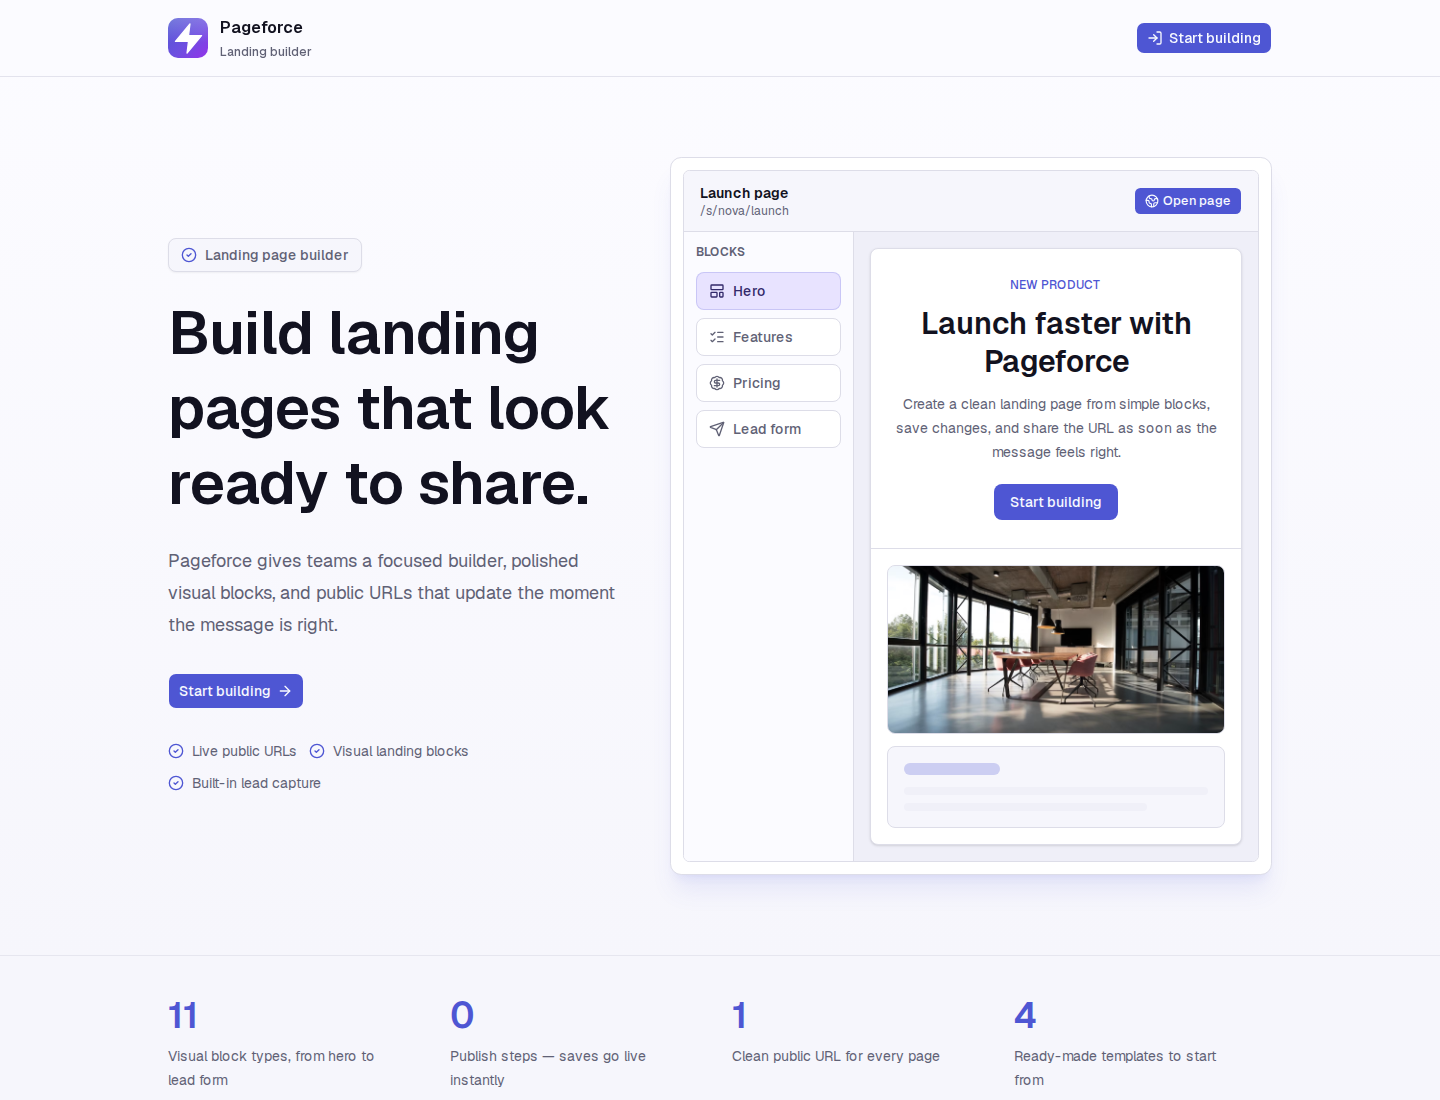
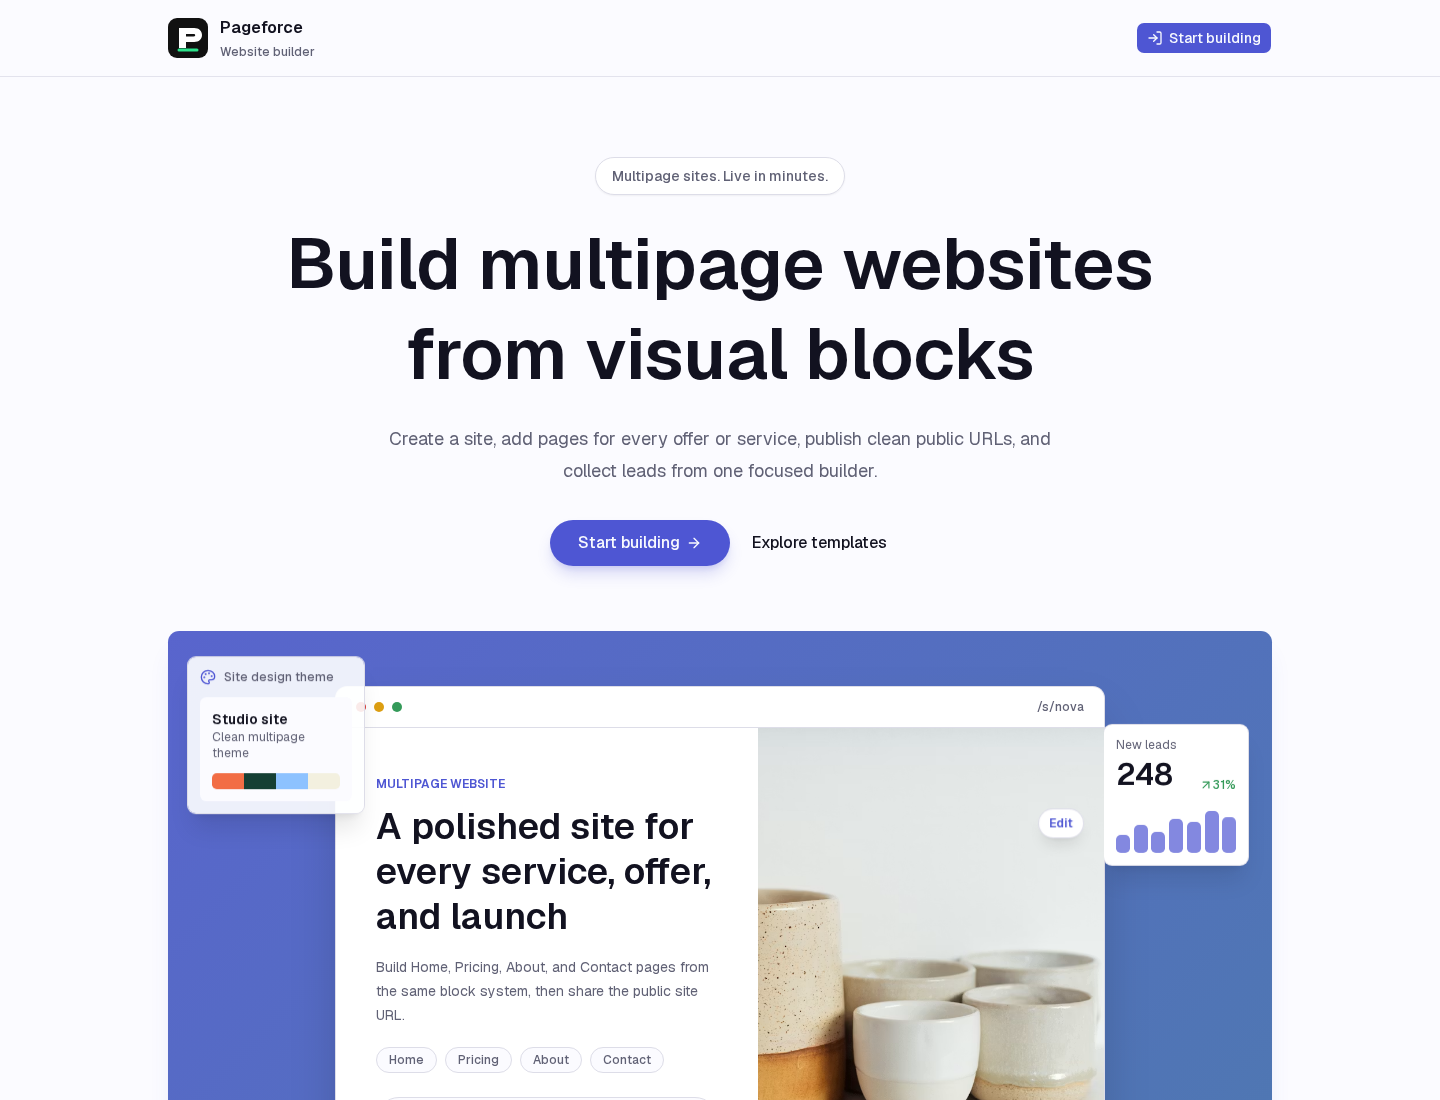
Expand README screenshot gallery

Changed region(s): [[0.0938, 0.1545, 0.9062, 1.0], [0.0938, 0.0, 0.2188, 0.0618], [0.5625, 0.4636, 0.5938, 0.4945]]

diff --git a/docs/assets/README.md b/docs/assets/README.md
@@ -7,9 +7,19 @@ This folder contains static screenshots used by `README.md` and `docs/showcase.m
 | File | Source route | Viewport | Notes |
 | --- | --- | --- | --- |
 | `screenshots/home-desktop.png` | `/` | 1440x1100 | Marketing page first viewport. |
+| `screenshots/home-full-desktop.png` | `/` | 1440x1100 full page | Complete marketing page. |
+| `screenshots/home-tablet.png` | `/` | 834x1112 | Tablet marketing page first viewport. |
 | `screenshots/home-mobile.png` | `/` | 390x844 | Mobile marketing page first viewport. |
+| `screenshots/home-mobile-full.png` | `/` | 390x844 full page | Complete mobile marketing page. |
 | `screenshots/login-desktop.png` | `/login` | 1440x1000 | Auth page and builder mockup. |
+| `screenshots/login-mobile.png` | `/login` | 390x844 | Mobile auth entry point. |
+| `screenshots/register-desktop.png` | `/register` | 1440x1000 | Register page and builder mockup. |
+| `screenshots/register-mobile.png` | `/register` | 390x844 | Mobile register entry point. |
 | `screenshots/design-system-desktop.png` | `/design-system` | 1440x1100 | UI primitives and visual system. |
+| `screenshots/design-system-full-desktop.png` | `/design-system` | 1440x1100 full page | Complete UI primitive gallery. |
+| `screenshots/design-system-tablet.png` | `/design-system` | 834x1112 | Tablet UI primitive gallery. |
+| `screenshots/design-system-mobile.png` | `/design-system` | 390x844 | Mobile UI primitive gallery. |
+| `screenshots/not-found-desktop.png` | `/missing-demo-route` | 1440x900 | Polished not-found fallback. |
 
 ## Regenerate
 
@@ -25,10 +35,10 @@ Then capture screenshots in another terminal:
 npm run demo:screenshots
 ```
 
-The script uses `PLAYWRIGHT_BASE_URL` when set, otherwise it defaults to `http://127.0.0.1:3000`.
+The script uses `PLAYWRIGHT_BASE_URL` when set, otherwise it defaults to `http://127.0.0.1:3000`. The default set captures unauthenticated routes so it can be regenerated without a Supabase test account.
 
 ## Safety
 
-The default screenshot set uses unauthenticated routes so it can be regenerated without test accounts or private data.
+The default screenshot set uses unauthenticated routes and the public not-found route so it can be regenerated without test accounts or private data.
 
 Authenticated dashboard and builder screenshots can be added later, but only from a clean dev Supabase project. Do not capture real customer data, private emails, access tokens, service-role keys, `.env` contents, or personal browser sessions.

diff --git a/README.md b/README.md
@@ -29,9 +29,17 @@ The project is intentionally small enough to review in one sitting, but built wi
 
 Live demo URL can be added after deployment. Until then, the screenshot set below gives reviewers a quick visual pass through the unauthenticated product surfaces.
 
-| Landing | Auth | Design system | Mobile |
+| Landing | Landing full page | Tablet | Mobile |
 | --- | --- | --- | --- |
-| ![Landing page](docs/assets/screenshots/home-desktop.png) | ![Login page](docs/assets/screenshots/login-desktop.png) | ![Design system](docs/assets/screenshots/design-system-desktop.png) | ![Mobile landing page](docs/assets/screenshots/home-mobile.png) |
+| ![Landing page desktop](docs/assets/screenshots/home-desktop.png) | ![Landing page full desktop](docs/assets/screenshots/home-full-desktop.png) | ![Landing page tablet](docs/assets/screenshots/home-tablet.png) | ![Landing page mobile](docs/assets/screenshots/home-mobile.png) |
+
+| Login | Register | Design system | Not found |
+| --- | --- | --- | --- |
+| ![Login page desktop](docs/assets/screenshots/login-desktop.png) | ![Register page desktop](docs/assets/screenshots/register-desktop.png) | ![Design system desktop](docs/assets/screenshots/design-system-desktop.png) | ![Not found page](docs/assets/screenshots/not-found-desktop.png) |
+
+| Login mobile | Register mobile | Design system tablet | Design system mobile |
+| --- | --- | --- | --- |
+| ![Login page mobile](docs/assets/screenshots/login-mobile.png) | ![Register page mobile](docs/assets/screenshots/register-mobile.png) | ![Design system tablet](docs/assets/screenshots/design-system-tablet.png) | ![Design system mobile](docs/assets/screenshots/design-system-mobile.png) |
 
 See [docs/showcase.md](docs/showcase.md) for the product story and reviewer path. Screenshot regeneration notes live in [docs/assets/README.md](docs/assets/README.md).
 